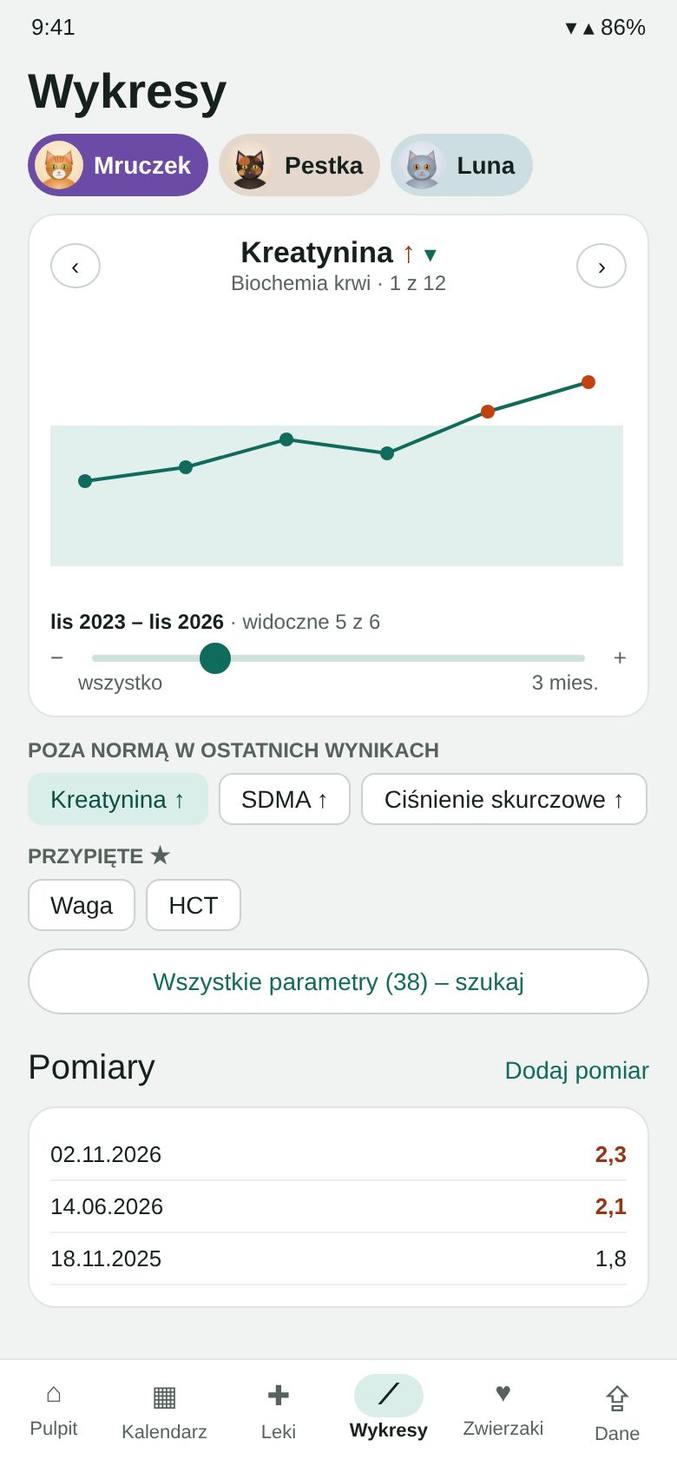
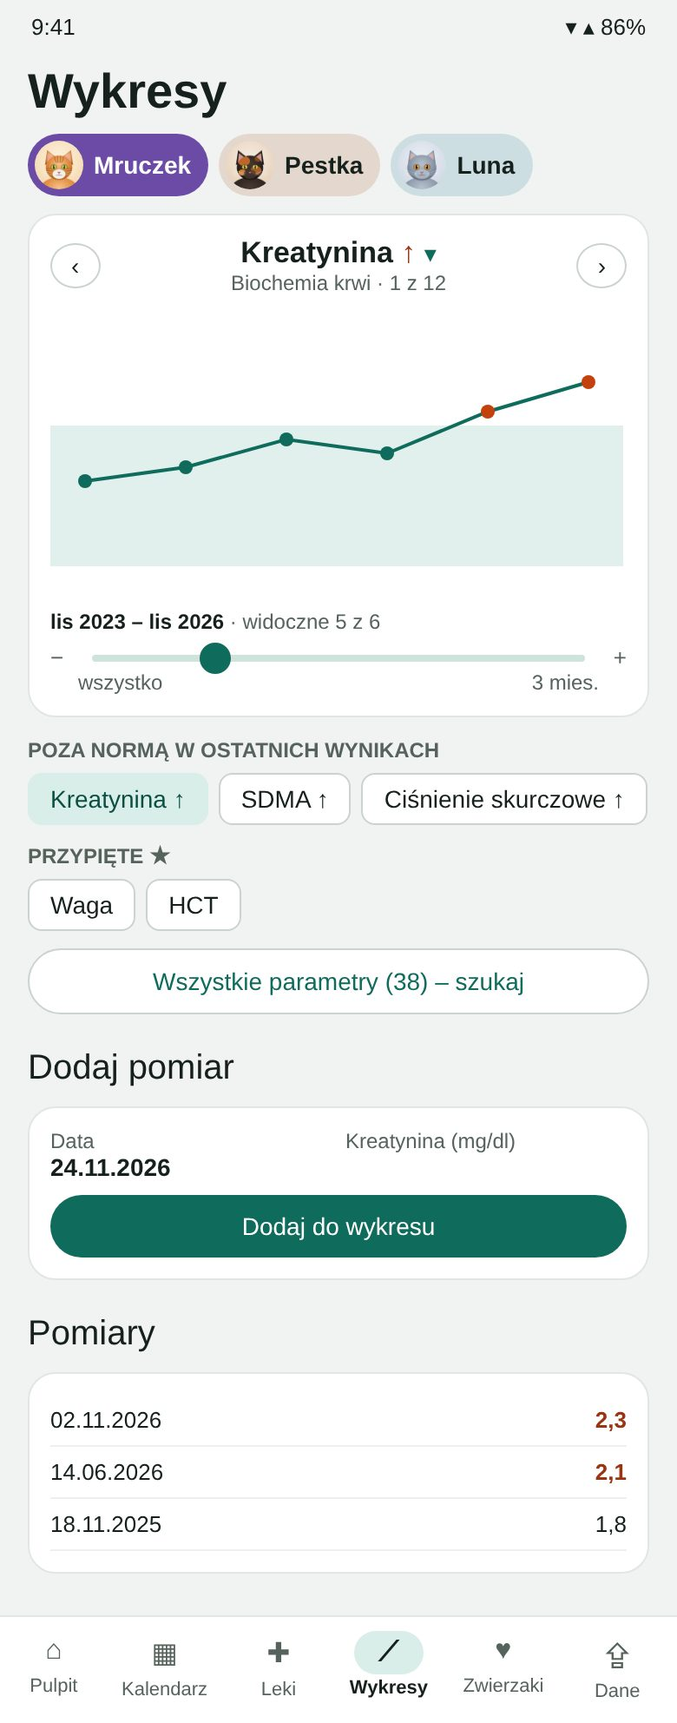
Zmiany 0.20.1, podręcznik: Dodaj pomiar nad listą
Claude-Session: https://claude.ai/code/session_01Lz8gJxS2uki7r8oLhaRRUg

diff --git a/zmiany/index.html b/zmiany/index.html
@@ -8,5 +8,5 @@ main{max-width:760px;margin:0 auto;padding:clamp(28px,5vw,56px) max(5vw,18px) 64
 h1{font-size:clamp(30px,5vw,40px);line-height:1.1;margin:8px 0 18px}.ver{border-top:1px solid var(--line);padding:14px 0 4px}
 .ver h2{font-size:20px;margin:0 0 4px}.ver h2 span{font-size:15px;font-weight:400;color:var(--mut);margin-left:8px}ul{padding-left:22px;margin:6px 0}li{margin:4px 0}</style></head><body><main>
 <p><a href="../">← KitkuApp</a></p><h1>Historia zmian</h1>
-<section class="ver"><h2>0.20.0 <span>24.11.2026</span></h2><ul><li>Wykresy na osi czasu: punkty w odstępach zgodnych z datami, na osi lata (po przybliżeniu półrocza i kwartały).</li><li>Domyślnie widać ostatnie 3 lata; gdy pomiary obejmują krótszy okres – wszystkie.</li><li>Przeciągnięcie wykresu w lewo lub w prawo przesuwa widok w czasie; strzałki ‹ › w rogach pokazują, że są starsze lub nowsze pomiary.</li><li>Suwak pod wykresem przybliża od „wszystko” do 3 miesięcy; „↺ Domyślny widok” wraca do 3 lat.</li></ul></section><section class="ver"><h2>0.19.2 <span>24.11.2026</span></h2><ul><li>Wykresy: parametry morfologii w kolejności jak na wydruku z analizatora (WBC, BAS%, BAS, NEU%, NEU … PLT, MPV, PDW, PCT), pozostałe pod nimi alfabetycznie.</li></ul></section><section class="ver"><h2>0.19.1 <span>24.11.2026</span></h2><ul><li>Wykresy: ten sam wynik zapisany w dwóch dokumentach z jednego dnia pokazuje się raz (bez nakładających się etykiet).</li><li>Parametry podawane w % (np. NEU %) mają własny wykres, osobno od wartości bezwzględnych.</li><li>Lista parametrów: bez pustych dopisków „też:”.</li></ul></section><section class="ver"><h2>0.19.0 <span>24.11.2026</span></h2><ul><li>Wykresy: wykres od razu pod wyborem zwierzaka. Dotknięcie nazwy parametru otwiera wybór, strzałki ‹ › przechodzą do sąsiednich parametrów z tej samej grupy.</li><li>Pod wykresem skróty: parametry poza normą w ostatnich wynikach i przypięte gwiazdką.</li><li>„Wszystkie parametry” – lista z wyszukiwarką (także po innych nazwach, np. „hematokryt”), pogrupowana jak badania, z ostatnią wartością.</li><li>Ten sam parametr z różnych laboratoriów (np. HCT i Hematokryt, PLT i Płytki krwi) oraz nazwy rozbite przy odczycie PDF trafiają na jeden wykres.</li></ul></section><section class="ver"><h2>0.18.2 <span>24.11.2026</span></h2><ul><li>Profil: „Archiwum diet” i „Historia fizjoterapii” przeniesione pod karty – przycisk dodawania w nagłówku nie łamie się już na wąskich ekranach.</li></ul></section><section class="ver"><h2>0.18.1 <span>23.11.2026</span></h2><ul><li>Poprawka: po przesunięciu profilu na innego zwierzaka „Terminy badań” pokazywały daty poprzednio oglądanego zwierzaka.</li></ul></section><section class="ver"><h2>0.18.0 <span>23.11.2026</span></h2><ul><li>Wizyta z datą w przyszłości wymaga tylko tytułu. Gdy termin minie, jest wyróżniona w historii i na Pulpicie z prośbą o wyniki – „Uzupełnij” albo „Dodaj skan” (skan z tego dnia uzupełni ten wpis).</li><li>Dieta: w profilu tylko trwające diety, zakończone w „Archiwum diet”. „Zakończ dietę” od razu przenosi ją do archiwum.</li><li>Fizjoterapia przeniesiona z kategorii badań do profilu zwierzaka – sekcja pod dietą, z własną historią.</li><li>Przesunięcie profilu w lewo lub w prawo przechodzi do kolejnego zwierzaka.</li><li>Kategorie badań przy dodawaniu wpisu pogrupowane (krew i mocz, obrazowe, wizyty) i zajmują mniej miejsca.</li></ul></section><section class="ver"><h2>0.17.0 <span>23.11.2026</span></h2><ul><li>Ręczny wpis: osobne pola Opis i Zalecenia (zalecenia tworzą przypomnienia), wyniki wpisywane wierszami – z podpowiedzią parametru, jednostką, normą i strzałką poza normą. Badanie z wynikami wymaga co najmniej jednego wyniku. Wyniki trafiają na wykresy i do stanu zdrowia.</li><li>Nowa kategoria: Fizjoterapia (opis zabiegów i zalecenia).</li><li>Stan zdrowia: dotknięcie pozycji otwiera badanie, przy wartościach poza normą widać normę, a zalecenia typu „kontrola za 12 miesięcy” nie są liczone jako problem.</li><li>Wybór zwierzaka ze zdjęciem i kolorem zwierzaka w tle (kalendarz, leki, wykresy, wpisy).</li><li>Leki: sekcja „Historia diet” nad historią leczenia.</li></ul></section><section class="ver"><h2>0.16.0 <span>23.11.2026</span></h2><ul><li>Profil zwierzaka: sekcja „Dieta” (nazwa, od–do lub na stałe, reakcja na dietę). Po zakończeniu dieta przechodzi do historii.</li><li>Wyszukiwanie w historii zwierzaka – w tytułach i opisach wpisów, na bieżąco podczas pisania.</li><li>Historia podzielona na roczniki – kreska z rokiem na granicy lat.</li><li>Po powrocie z otwartego wpisu profil wraca w to samo miejsce historii.</li></ul></section><section class="ver"><h2>0.15.2 <span>23.11.2026</span></h2><ul><li>Lepszy import historii wizyt: opis badania klinicznego zachowuje podział na punkty, zawinięte zdania są sklejane, a wizyty z samymi załącznikami są pomijane.</li><li>Poprawnie odczytywane wyniki, w których wartość jest sklejona z nazwą parametru (np. SAA), wyniki „w toku” są pomijane, a „Wartość” dostaje nazwę badania.</li><li>Interpretacja wyniku przerwana podziałem strony nie gubi ostatniego zdania.</li></ul></section><section class="ver"><h2>0.15.1 <span>23.11.2026</span></h2><ul><li>Nowa ikona aplikacji.</li><li>Zakładka „Dane i ustawienia” – czytelniej rozdzielone sekcje przywracania kopii i wyglądu.</li></ul></section><section class="ver"><h2>0.15.0 <span>22.11.2026</span></h2><ul><li>Normy badania moczu dla kotów i psów, gdy laboratorium ich nie podało: ciężar właściwy, pH, stosunek białko/kreatynina (z rozróżnieniem wartości granicznej i białkomoczu), erytrocyty i leukocyty w osadzie.</li><li>Wyniki opisowe (glukoza, ketony, krew, bilirubina, bakterie, wałeczki, nabłonki, liczne kryształy) oznaczane jako nieprawidłowe, z normą słowną obok. Białko z paska u kota – tylko informacyjnie.</li><li>Nieprawidłowe wyniki moczu trafiają do podsumowania stanu zdrowia.</li></ul></section><section class="ver"><h2>0.14.0 <span>22.11.2026</span></h2><ul><li>Ciemny motyw: przełącznik w zakładce Dane (sekcja „Wygląd”). Domyślnie aplikacja dopasowuje się do ustawień telefonu.</li></ul></section><section class="ver"><h2>0.13.1 <span>22.11.2026</span></h2><ul><li>Lepszy import zeskanowanych kart wizyt: rozpoznawane sekcje „Opis badania”, „Zabiegi” i „Zastosowane leki” mimo ikon przy nagłówkach, a także data wizyty zaznaczona zakreślaczem.</li><li>Tomografia wpisana w zabiegach oznacza wpis kategorią TK.</li></ul></section><section class="ver"><h2>0.13.0 <span>22.11.2026</span></h2><ul><li>Profil zwierzaka: nowa sekcja „Stan zdrowia” – podsumowanie tworzone automatycznie z ostatnich wyników każdego badania (wartości poza normą, wnioski z badań obrazowych, na końcu badania w normie). Odświeża się samo po dodaniu nowych wyników.</li><li>Pod podsumowaniem pole „Moje notatki” na własne uwagi o zdrowiu.</li></ul></section><section class="ver"><h2>0.12.5 <span>22.11.2026</span></h2><ul><li>Import opisów tomografii komputerowej: rozpoznawane imię zwierzęcia, data i tytuł badania, lekarz opisujący i kierujący, a do wpisu trafia pełny opis i wnioski (bez stopek i stron z obrazami).</li><li>Nowa kategoria badań: Tomografia komputerowa.</li></ul></section><section class="ver"><h2>0.12.4 <span>22.11.2026</span></h2><ul><li>Kalendarz: dotknięcie nazwy miesiąca otwiera wybór miesiąca i roku.</li><li>Kalendarz: usunięta karta „Terminy badań” – terminy są w profilach zwierzaków, a w widoku miesiąca nadal widać je jako kółka.</li><li>Po powrocie z otwartego wpisu kalendarz pokazuje ten sam miesiąc, dzień i filtr.</li></ul></section><section class="ver"><h2>0.12.3 <span>22.11.2026</span></h2><ul><li>Leki podawane co kilka dni: w oknie leku pole „Podawaj co … dni”, na liście informacja o następnej dawce, a zapasy liczą zużycie tylko w dni podania.</li></ul></section><section class="ver"><h2>0.12.2 <span>22.11.2026</span></h2><ul><li>Sekcja Zapasy na karcie Leki pokazuje wszystkie monitorowane leki, niezależnie od wybranego zwierzaka, razem z informacją, kto je dostaje.</li></ul></section><section class="ver"><h2>0.12.1 <span>22.11.2026</span></h2><ul><li>W przypomnieniu jednorazowym termin można ustawić wpisując „Za … miesięcy” – data przelicza się sama.</li></ul></section><section class="ver"><h2>0.12.0 <span>22.11.2026</span></h2><ul><li>Zapasy leków: zaznacz „Monitoruj zużycie”, wpisz posiadaną ilość, a karta Leki pokaże, na ile dni wystarczy zapas. Zużycie liczone jest ze wszystkich zwierzaków, które dostają ten sam lek.</li><li>Przypomnienie na Pulpicie i powiadomienie, gdy zapas leku kończy się w ciągu 7 dni.</li><li>Dawka wpisywana jako liczba z jednostką (szt, ml, g).</li><li>Nowy lek można dodać od razu kilku zwierzakom i o kilku godzinach.</li><li>Podpowiedzi nazw leków już używanych (także przy literówce) – z dawką i jednostką.</li></ul></section><section class="ver"><h2>0.11.6 <span>20.11.2026</span></h2><ul><li>Opisy badań USG importowane w całości, w akapitach, z kategorią „USG jamy brzusznej”.</li><li>Poprawione rozpoznawanie imion i słów w wypisach, w których PDF rozdzielał wyrazy (np. „Zw ierzę”).</li></ul></section><section class="ver"><h2>0.11.5 <span>20.11.2026</span></h2><ul><li>Uwaga o konsultacji częstotliwości badań z weterynarzem przeniesiona nad przypomnienia jednorazowe.</li><li>W zakładce Dane przy numerze wersji link do listy zmian.</li></ul></section><section class="ver"><h2>0.11.4 <span>20.11.2026</span></h2><ul><li>Przypomnienie o USG jamy brzusznej domyślnie co 12 miesięcy (wcześniej 6).</li><li>W ustawieniach przypomnień uwaga, że częstotliwość badań warto ustalić z lekarzem weterynarii.</li></ul></section><section class="ver"><h2>0.11.3 <span>20.11.2026</span></h2><ul><li>Przypomnienie o echu serca domyślnie co 12 miesięcy (wcześniej 24), zgodnie z zaleceniem corocznej kontroli kotów z ras predysponowanych i z łagodną kardiomiopatią.</li></ul></section><section class="ver"><h2>0.11.2 <span>19.11.2026</span></h2><ul><li>Przy dodawaniu wpisu i imporcie nie trzeba już wybierać rodzaju (wizyta, badanie, telefon, pomiar domowy) — aplikacja ustawia go sama.</li></ul></section><section class="ver"><h2>0.11.1 <span>19.11.2026</span></h2><ul><li>Profil zwierzaka: dotknięcie badania w „Terminach badań” pokazuje historię tylko z tym badaniem.</li></ul></section><section class="ver"><h2>0.11.0 <span>19.11.2026</span></h2><ul><li>Import wypisów z gabinetu kardiologicznego: cały wynik echa serca zapisany w opisie wizyty, wywiad, waga, ciśnienie i zalecenia (np. kontrolne echo po 3–4 miesiącach).</li><li>Imię z wypisu dopasowywane mimo drobnej różnicy w pisowni (np. Papaya ↔ Papaja).</li></ul></section><section class="ver"><h2>0.10.6 <span>19.11.2026</span></h2><ul><li>Numer wersji rośnie automatycznie z każdym wydaniem (porządek przy publikacji w Google Play).</li></ul></section><section class="ver"><h2>0.10.5 <span>19.11.2026</span></h2><ul><li>Polityka prywatności na stronie aplikacji (GitHub Pages), link w zakładce Dane.</li></ul></section><section class="ver"><h2>0.10.4 <span>18.11.2026</span></h2><ul><li>Import kilku dużych kartotek naraz bez zawieszania aplikacji: zapis w tle, pliki czytane po kolei, lista wizyt pokazywana porcjami, przycisk usuwania duplikatów z listy.</li></ul></section><section class="ver"><h2>0.10.3 <span>17.11.2026</span></h2><ul><li>Edycja i usuwanie przypomnień: zmiana nazwy i okresu, usuwanie własnych i domyślnych (z możliwością przywrócenia), edycja przypomnień jednorazowych.</li></ul></section><section class="ver"><h2>0.10.2 <span>17.11.2026</span></h2><ul><li>Zwierzaki na Pulpicie i w zakładce Zwierzaki ułożone od tych, które najbardziej potrzebują badań.</li><li>Terminy badań w profilu od zaległych do najodleglejszych.</li><li>Leki pogrupowane według godziny podawania.</li></ul></section><section class="ver"><h2>0.10.1 <span>17.11.2026</span></h2><ul><li>Nowe przypomnienie: pomiar ciśnienia co 6 miesięcy.</li></ul></section><section class="ver"><h2>0.10.0 <span>17.11.2026</span></h2><ul><li>Przygotowanie do Google Play: nowy identyfikator aplikacji, Android 16, polityka prywatności.</li></ul></section><section class="ver"><h2>0.9.2 <span>17.11.2026</span></h2><ul><li>Przypomnienia jednorazowe nie mnożą się po imporcie starszych kartotek; zamknięte można ukryć lub usunąć.</li></ul></section><section class="ver"><h2>0.9.1 <span>17.11.2026</span></h2><ul><li>Ręczna poprawa zaimportowanych wyników: nazwa, wartość, jednostka, norma, dodawanie i usuwanie pozycji.</li><li>Poprawny tytuł badania, gdy tabela zaczyna się na następnej stronie wypisu.</li></ul></section><section class="ver"><h2>0.9.0 <span>17.11.2026</span></h2><ul><li>Psy obok kotów, z typowymi wartościami tętna, oddechów i ciśnienia dla psa.</li><li>Przypomnienia jednorazowe z zaleceń w wypisie (np. „powtórzyć USG za miesiąc”) i po wynikach poza normą.</li></ul></section><section class="ver"><h2>0.8.0 <span>17.11.2026</span></h2><ul><li>Zdjęcia zwierząt z przesuwaniem i kadrowaniem.</li><li>Ciśnienie skurczowe, rozkurczowe i tętno w pomiarach domowych i z wypisów.</li></ul></section><section class="ver"><h2>0.7 <span>17.11.2026</span></h2><ul><li>Nowa zakładka Leki: godzina podawania, dawka, uwagi, daty oraz historia leczenia.</li><li>Czytelniejszy dolny pasek nawigacji.</li></ul></section><section class="ver"><h2>0.6 <span>17.11.2026</span></h2><ul><li>Nowa nazwa: KitkuApp, przycisk „Postaw kotkom karmę”.</li><li>Przypomnienie o echu serca (co 24 miesiące) i własne przypomnienia.</li></ul></section><section class="ver"><h2>0.5 <span>17.11.2026</span></h2><ul><li>Odczyt skanów PDF i zdjęć wypisów (rozpoznawanie tekstu w telefonie).</li><li>Pomiary domowe: oddechy w spoczynku, biegunka, wymioty; zwijane kategorie wykresów.</li><li>Zakładka Dane z importem i kopią zapasową, dzwonek do ustawień przypomnień, do 6 zwierzaków widocznych bez przewijania.</li></ul></section><section class="ver"><h2>0.4 <span>16.11.2026</span></h2><ul><li>Import zbiorczych wypisów z wieloma wizytami w jednym pliku.</li><li>Jednostki wyników przeliczane na wspólne, dokładniejszy odczyt tabel z wynikami.</li></ul></section><section class="ver"><h2>0.3 <span>16.11.2026</span></h2><ul><li>Pierwsza wersja: kalendarz badań z przypomnieniami, profile kotów z wiekiem, import wypisów PDF, wykresy wyników, kopia zapasowa na Dysku Google.</li></ul></section>
+<section class="ver"><h2>0.20.1 <span>24.11.2026</span></h2><ul><li>Wykresy: „Dodaj pomiar” jest teraz nad listą wcześniejszych pomiarów.</li><li>Pomiary domowe: usunięte ciśnienie rozkurczowe (u kotów ocenia się głównie skurczowe). Wartości rozkurczowe z wypisów nadal są na wykresach.</li></ul></section><section class="ver"><h2>0.20.0 <span>24.11.2026</span></h2><ul><li>Wykresy na osi czasu: punkty w odstępach zgodnych z datami, na osi lata (po przybliżeniu półrocza i kwartały).</li><li>Domyślnie widać ostatnie 3 lata; gdy pomiary obejmują krótszy okres – wszystkie.</li><li>Przeciągnięcie wykresu w lewo lub w prawo przesuwa widok w czasie; strzałki ‹ › w rogach pokazują, że są starsze lub nowsze pomiary.</li><li>Suwak pod wykresem przybliża od „wszystko” do 3 miesięcy; „↺ Domyślny widok” wraca do 3 lat.</li></ul></section><section class="ver"><h2>0.19.2 <span>24.11.2026</span></h2><ul><li>Wykresy: parametry morfologii w kolejności jak na wydruku z analizatora (WBC, BAS%, BAS, NEU%, NEU … PLT, MPV, PDW, PCT), pozostałe pod nimi alfabetycznie.</li></ul></section><section class="ver"><h2>0.19.1 <span>24.11.2026</span></h2><ul><li>Wykresy: ten sam wynik zapisany w dwóch dokumentach z jednego dnia pokazuje się raz (bez nakładających się etykiet).</li><li>Parametry podawane w % (np. NEU %) mają własny wykres, osobno od wartości bezwzględnych.</li><li>Lista parametrów: bez pustych dopisków „też:”.</li></ul></section><section class="ver"><h2>0.19.0 <span>24.11.2026</span></h2><ul><li>Wykresy: wykres od razu pod wyborem zwierzaka. Dotknięcie nazwy parametru otwiera wybór, strzałki ‹ › przechodzą do sąsiednich parametrów z tej samej grupy.</li><li>Pod wykresem skróty: parametry poza normą w ostatnich wynikach i przypięte gwiazdką.</li><li>„Wszystkie parametry” – lista z wyszukiwarką (także po innych nazwach, np. „hematokryt”), pogrupowana jak badania, z ostatnią wartością.</li><li>Ten sam parametr z różnych laboratoriów (np. HCT i Hematokryt, PLT i Płytki krwi) oraz nazwy rozbite przy odczycie PDF trafiają na jeden wykres.</li></ul></section><section class="ver"><h2>0.18.2 <span>24.11.2026</span></h2><ul><li>Profil: „Archiwum diet” i „Historia fizjoterapii” przeniesione pod karty – przycisk dodawania w nagłówku nie łamie się już na wąskich ekranach.</li></ul></section><section class="ver"><h2>0.18.1 <span>23.11.2026</span></h2><ul><li>Poprawka: po przesunięciu profilu na innego zwierzaka „Terminy badań” pokazywały daty poprzednio oglądanego zwierzaka.</li></ul></section><section class="ver"><h2>0.18.0 <span>23.11.2026</span></h2><ul><li>Wizyta z datą w przyszłości wymaga tylko tytułu. Gdy termin minie, jest wyróżniona w historii i na Pulpicie z prośbą o wyniki – „Uzupełnij” albo „Dodaj skan” (skan z tego dnia uzupełni ten wpis).</li><li>Dieta: w profilu tylko trwające diety, zakończone w „Archiwum diet”. „Zakończ dietę” od razu przenosi ją do archiwum.</li><li>Fizjoterapia przeniesiona z kategorii badań do profilu zwierzaka – sekcja pod dietą, z własną historią.</li><li>Przesunięcie profilu w lewo lub w prawo przechodzi do kolejnego zwierzaka.</li><li>Kategorie badań przy dodawaniu wpisu pogrupowane (krew i mocz, obrazowe, wizyty) i zajmują mniej miejsca.</li></ul></section><section class="ver"><h2>0.17.0 <span>23.11.2026</span></h2><ul><li>Ręczny wpis: osobne pola Opis i Zalecenia (zalecenia tworzą przypomnienia), wyniki wpisywane wierszami – z podpowiedzią parametru, jednostką, normą i strzałką poza normą. Badanie z wynikami wymaga co najmniej jednego wyniku. Wyniki trafiają na wykresy i do stanu zdrowia.</li><li>Nowa kategoria: Fizjoterapia (opis zabiegów i zalecenia).</li><li>Stan zdrowia: dotknięcie pozycji otwiera badanie, przy wartościach poza normą widać normę, a zalecenia typu „kontrola za 12 miesięcy” nie są liczone jako problem.</li><li>Wybór zwierzaka ze zdjęciem i kolorem zwierzaka w tle (kalendarz, leki, wykresy, wpisy).</li><li>Leki: sekcja „Historia diet” nad historią leczenia.</li></ul></section><section class="ver"><h2>0.16.0 <span>23.11.2026</span></h2><ul><li>Profil zwierzaka: sekcja „Dieta” (nazwa, od–do lub na stałe, reakcja na dietę). Po zakończeniu dieta przechodzi do historii.</li><li>Wyszukiwanie w historii zwierzaka – w tytułach i opisach wpisów, na bieżąco podczas pisania.</li><li>Historia podzielona na roczniki – kreska z rokiem na granicy lat.</li><li>Po powrocie z otwartego wpisu profil wraca w to samo miejsce historii.</li></ul></section><section class="ver"><h2>0.15.2 <span>23.11.2026</span></h2><ul><li>Lepszy import historii wizyt: opis badania klinicznego zachowuje podział na punkty, zawinięte zdania są sklejane, a wizyty z samymi załącznikami są pomijane.</li><li>Poprawnie odczytywane wyniki, w których wartość jest sklejona z nazwą parametru (np. SAA), wyniki „w toku” są pomijane, a „Wartość” dostaje nazwę badania.</li><li>Interpretacja wyniku przerwana podziałem strony nie gubi ostatniego zdania.</li></ul></section><section class="ver"><h2>0.15.1 <span>23.11.2026</span></h2><ul><li>Nowa ikona aplikacji.</li><li>Zakładka „Dane i ustawienia” – czytelniej rozdzielone sekcje przywracania kopii i wyglądu.</li></ul></section><section class="ver"><h2>0.15.0 <span>22.11.2026</span></h2><ul><li>Normy badania moczu dla kotów i psów, gdy laboratorium ich nie podało: ciężar właściwy, pH, stosunek białko/kreatynina (z rozróżnieniem wartości granicznej i białkomoczu), erytrocyty i leukocyty w osadzie.</li><li>Wyniki opisowe (glukoza, ketony, krew, bilirubina, bakterie, wałeczki, nabłonki, liczne kryształy) oznaczane jako nieprawidłowe, z normą słowną obok. Białko z paska u kota – tylko informacyjnie.</li><li>Nieprawidłowe wyniki moczu trafiają do podsumowania stanu zdrowia.</li></ul></section><section class="ver"><h2>0.14.0 <span>22.11.2026</span></h2><ul><li>Ciemny motyw: przełącznik w zakładce Dane (sekcja „Wygląd”). Domyślnie aplikacja dopasowuje się do ustawień telefonu.</li></ul></section><section class="ver"><h2>0.13.1 <span>22.11.2026</span></h2><ul><li>Lepszy import zeskanowanych kart wizyt: rozpoznawane sekcje „Opis badania”, „Zabiegi” i „Zastosowane leki” mimo ikon przy nagłówkach, a także data wizyty zaznaczona zakreślaczem.</li><li>Tomografia wpisana w zabiegach oznacza wpis kategorią TK.</li></ul></section><section class="ver"><h2>0.13.0 <span>22.11.2026</span></h2><ul><li>Profil zwierzaka: nowa sekcja „Stan zdrowia” – podsumowanie tworzone automatycznie z ostatnich wyników każdego badania (wartości poza normą, wnioski z badań obrazowych, na końcu badania w normie). Odświeża się samo po dodaniu nowych wyników.</li><li>Pod podsumowaniem pole „Moje notatki” na własne uwagi o zdrowiu.</li></ul></section><section class="ver"><h2>0.12.5 <span>22.11.2026</span></h2><ul><li>Import opisów tomografii komputerowej: rozpoznawane imię zwierzęcia, data i tytuł badania, lekarz opisujący i kierujący, a do wpisu trafia pełny opis i wnioski (bez stopek i stron z obrazami).</li><li>Nowa kategoria badań: Tomografia komputerowa.</li></ul></section><section class="ver"><h2>0.12.4 <span>22.11.2026</span></h2><ul><li>Kalendarz: dotknięcie nazwy miesiąca otwiera wybór miesiąca i roku.</li><li>Kalendarz: usunięta karta „Terminy badań” – terminy są w profilach zwierzaków, a w widoku miesiąca nadal widać je jako kółka.</li><li>Po powrocie z otwartego wpisu kalendarz pokazuje ten sam miesiąc, dzień i filtr.</li></ul></section><section class="ver"><h2>0.12.3 <span>22.11.2026</span></h2><ul><li>Leki podawane co kilka dni: w oknie leku pole „Podawaj co … dni”, na liście informacja o następnej dawce, a zapasy liczą zużycie tylko w dni podania.</li></ul></section><section class="ver"><h2>0.12.2 <span>22.11.2026</span></h2><ul><li>Sekcja Zapasy na karcie Leki pokazuje wszystkie monitorowane leki, niezależnie od wybranego zwierzaka, razem z informacją, kto je dostaje.</li></ul></section><section class="ver"><h2>0.12.1 <span>22.11.2026</span></h2><ul><li>W przypomnieniu jednorazowym termin można ustawić wpisując „Za … miesięcy” – data przelicza się sama.</li></ul></section><section class="ver"><h2>0.12.0 <span>22.11.2026</span></h2><ul><li>Zapasy leków: zaznacz „Monitoruj zużycie”, wpisz posiadaną ilość, a karta Leki pokaże, na ile dni wystarczy zapas. Zużycie liczone jest ze wszystkich zwierzaków, które dostają ten sam lek.</li><li>Przypomnienie na Pulpicie i powiadomienie, gdy zapas leku kończy się w ciągu 7 dni.</li><li>Dawka wpisywana jako liczba z jednostką (szt, ml, g).</li><li>Nowy lek można dodać od razu kilku zwierzakom i o kilku godzinach.</li><li>Podpowiedzi nazw leków już używanych (także przy literówce) – z dawką i jednostką.</li></ul></section><section class="ver"><h2>0.11.6 <span>20.11.2026</span></h2><ul><li>Opisy badań USG importowane w całości, w akapitach, z kategorią „USG jamy brzusznej”.</li><li>Poprawione rozpoznawanie imion i słów w wypisach, w których PDF rozdzielał wyrazy (np. „Zw ierzę”).</li></ul></section><section class="ver"><h2>0.11.5 <span>20.11.2026</span></h2><ul><li>Uwaga o konsultacji częstotliwości badań z weterynarzem przeniesiona nad przypomnienia jednorazowe.</li><li>W zakładce Dane przy numerze wersji link do listy zmian.</li></ul></section><section class="ver"><h2>0.11.4 <span>20.11.2026</span></h2><ul><li>Przypomnienie o USG jamy brzusznej domyślnie co 12 miesięcy (wcześniej 6).</li><li>W ustawieniach przypomnień uwaga, że częstotliwość badań warto ustalić z lekarzem weterynarii.</li></ul></section><section class="ver"><h2>0.11.3 <span>20.11.2026</span></h2><ul><li>Przypomnienie o echu serca domyślnie co 12 miesięcy (wcześniej 24), zgodnie z zaleceniem corocznej kontroli kotów z ras predysponowanych i z łagodną kardiomiopatią.</li></ul></section><section class="ver"><h2>0.11.2 <span>19.11.2026</span></h2><ul><li>Przy dodawaniu wpisu i imporcie nie trzeba już wybierać rodzaju (wizyta, badanie, telefon, pomiar domowy) — aplikacja ustawia go sama.</li></ul></section><section class="ver"><h2>0.11.1 <span>19.11.2026</span></h2><ul><li>Profil zwierzaka: dotknięcie badania w „Terminach badań” pokazuje historię tylko z tym badaniem.</li></ul></section><section class="ver"><h2>0.11.0 <span>19.11.2026</span></h2><ul><li>Import wypisów z gabinetu kardiologicznego: cały wynik echa serca zapisany w opisie wizyty, wywiad, waga, ciśnienie i zalecenia (np. kontrolne echo po 3–4 miesiącach).</li><li>Imię z wypisu dopasowywane mimo drobnej różnicy w pisowni (np. Papaya ↔ Papaja).</li></ul></section><section class="ver"><h2>0.10.6 <span>19.11.2026</span></h2><ul><li>Numer wersji rośnie automatycznie z każdym wydaniem (porządek przy publikacji w Google Play).</li></ul></section><section class="ver"><h2>0.10.5 <span>19.11.2026</span></h2><ul><li>Polityka prywatności na stronie aplikacji (GitHub Pages), link w zakładce Dane.</li></ul></section><section class="ver"><h2>0.10.4 <span>18.11.2026</span></h2><ul><li>Import kilku dużych kartotek naraz bez zawieszania aplikacji: zapis w tle, pliki czytane po kolei, lista wizyt pokazywana porcjami, przycisk usuwania duplikatów z listy.</li></ul></section><section class="ver"><h2>0.10.3 <span>17.11.2026</span></h2><ul><li>Edycja i usuwanie przypomnień: zmiana nazwy i okresu, usuwanie własnych i domyślnych (z możliwością przywrócenia), edycja przypomnień jednorazowych.</li></ul></section><section class="ver"><h2>0.10.2 <span>17.11.2026</span></h2><ul><li>Zwierzaki na Pulpicie i w zakładce Zwierzaki ułożone od tych, które najbardziej potrzebują badań.</li><li>Terminy badań w profilu od zaległych do najodleglejszych.</li><li>Leki pogrupowane według godziny podawania.</li></ul></section><section class="ver"><h2>0.10.1 <span>17.11.2026</span></h2><ul><li>Nowe przypomnienie: pomiar ciśnienia co 6 miesięcy.</li></ul></section><section class="ver"><h2>0.10.0 <span>17.11.2026</span></h2><ul><li>Przygotowanie do Google Play: nowy identyfikator aplikacji, Android 16, polityka prywatności.</li></ul></section><section class="ver"><h2>0.9.2 <span>17.11.2026</span></h2><ul><li>Przypomnienia jednorazowe nie mnożą się po imporcie starszych kartotek; zamknięte można ukryć lub usunąć.</li></ul></section><section class="ver"><h2>0.9.1 <span>17.11.2026</span></h2><ul><li>Ręczna poprawa zaimportowanych wyników: nazwa, wartość, jednostka, norma, dodawanie i usuwanie pozycji.</li><li>Poprawny tytuł badania, gdy tabela zaczyna się na następnej stronie wypisu.</li></ul></section><section class="ver"><h2>0.9.0 <span>17.11.2026</span></h2><ul><li>Psy obok kotów, z typowymi wartościami tętna, oddechów i ciśnienia dla psa.</li><li>Przypomnienia jednorazowe z zaleceń w wypisie (np. „powtórzyć USG za miesiąc”) i po wynikach poza normą.</li></ul></section><section class="ver"><h2>0.8.0 <span>17.11.2026</span></h2><ul><li>Zdjęcia zwierząt z przesuwaniem i kadrowaniem.</li><li>Ciśnienie skurczowe, rozkurczowe i tętno w pomiarach domowych i z wypisów.</li></ul></section><section class="ver"><h2>0.7 <span>17.11.2026</span></h2><ul><li>Nowa zakładka Leki: godzina podawania, dawka, uwagi, daty oraz historia leczenia.</li><li>Czytelniejszy dolny pasek nawigacji.</li></ul></section><section class="ver"><h2>0.6 <span>17.11.2026</span></h2><ul><li>Nowa nazwa: KitkuApp, przycisk „Postaw kotkom karmę”.</li><li>Przypomnienie o echu serca (co 24 miesiące) i własne przypomnienia.</li></ul></section><section class="ver"><h2>0.5 <span>17.11.2026</span></h2><ul><li>Odczyt skanów PDF i zdjęć wypisów (rozpoznawanie tekstu w telefonie).</li><li>Pomiary domowe: oddechy w spoczynku, biegunka, wymioty; zwijane kategorie wykresów.</li><li>Zakładka Dane z importem i kopią zapasową, dzwonek do ustawień przypomnień, do 6 zwierzaków widocznych bez przewijania.</li></ul></section><section class="ver"><h2>0.4 <span>16.11.2026</span></h2><ul><li>Import zbiorczych wypisów z wieloma wizytami w jednym pliku.</li><li>Jednostki wyników przeliczane na wspólne, dokładniejszy odczyt tabel z wynikami.</li></ul></section><section class="ver"><h2>0.3 <span>16.11.2026</span></h2><ul><li>Pierwsza wersja: kalendarz badań z przypomnieniami, profile kotów z wiekiem, import wypisów PDF, wykresy wyników, kopia zapasowa na Dysku Google.</li></ul></section>
 </main></body></html>

diff --git a/podrecznik/index.html b/podrecznik/index.html
@@ -57,8 +57,8 @@ footer{border-top:1px solid var(--line);margin-top:30px;padding-top:14px}
 <div><h2>Leki</h2><p>Leki podawane każdemu zwierzakowi, pogrupowane według godzin, i zapasy.</p><ol class="steps"><li data-n="1"><span class="n">1</span><span>Wybór zwierzaka – zdjęcie, a w tle kolor zwierzaka (ten sam co na wykresach).</span></li><li data-n="2"><span class="n">2</span><span>Ołówek: <b>edycja leku</b> (godzina, dawka, co ile dni, okres, zapas).</span></li><li data-n="3"><span class="n">3</span><span><b>Zakończ podawanie</b> – lek przechodzi do historii leczenia.</span></li><li data-n="4"><span class="n">4</span><span><b>Zapasy</b>: ile zostało i na ile dni wystarczy, liczone ze wszystkich zwierzaków dostających ten lek. Dotknij, aby wpisać nową ilość po zakupie. Przy 7 dniach i mniej pojawi się alert na Pulpicie.</span></li><li data-n="5"><span class="n">5</span><span><b>+ Dodaj lek</b> otwiera okno nowego leku (następny obrazek).</span></li><li data-n="6"><span class="n">6</span><span><b>Historia diet</b> – zakończone diety zwierzaka z reakcją na dietę (widoczne też w historii profilu).</span></li></ol></div></section><section class="scr" id="lek-okno" style="--cycle:8.0s">
 <div class="shot"><img src="img/lek-okno.jpg" alt="Ekran Nowy lek z przykładowymi danymi" width="780" height="1688" loading="lazy"><span class="tap" data-n="1" style="left:10.77%;top:17.18%;--d:0.0s" aria-hidden="true">1</span><span class="tap" data-n="2" style="left:10.77%;top:28.44%;--d:1.6s" aria-hidden="true">2</span><span class="tap" data-n="3" style="left:10.77%;top:33.29%;--d:3.2s" aria-hidden="true">3</span><span class="tap" data-n="4" style="left:10.77%;top:56.04%;--d:4.8s" aria-hidden="true">4</span><span class="tap" data-n="5" style="left:10.77%;top:61.37%;--d:6.4s" aria-hidden="true">5</span></div>
 <div><h2>Nowy lek</h2><p>Jeden lek można dodać od razu kilku zwierzakom i o kilku godzinach.</p><ol class="steps"><li data-n="1"><span class="n">1</span><span>Zaznacz <b>kilka zwierzaków</b> naraz (albo „Wszystkie”).</span></li><li data-n="2"><span class="n">2</span><span>Zaznacz <b>godziny</b> – spośród już używanych albo dodaj inną. Powstanie wpis dla każdej pary zwierzak × godzina.</span></li><li data-n="3"><span class="n">3</span><span>Przy wpisywaniu nazwy pojawiają się <b>podpowiedzi</b> leków już używanych (także przy literówce). Wybranie podpowiedzi wpisuje dawkę, jednostkę i aktualny zapas.</span></li><li data-n="4"><span class="n">4</span><span><b>Podawaj co X dni</b> – np. odrobaczanie co 90 dni.</span></li><li data-n="5"><span class="n">5</span><span><b>Monitoruj zużycie</b> – wpisz posiadaną ilość, a aplikacja policzy, na ile dni wystarczy.</span></li></ol></div></section><section class="scr" id="wykresy" style="--cycle:12.8s">
-<div class="shot"><img src="img/wykresy.jpg" alt="Ekran Wykresy z przykładowymi danymi" width="780" height="1688" loading="lazy"><span class="tap" data-n="1" style="left:5.13%;top:9.6%;--d:0.0s" aria-hidden="true">1</span><span class="tap" data-n="2" style="left:17.86%;top:16.59%;--d:1.6s" aria-hidden="true">2</span><span class="tap" data-n="3" style="left:8.46%;top:17.06%;--d:3.2s" aria-hidden="true">3</span><span class="tap" data-n="4" style="left:8.46%;top:21.33%;--d:4.8s" aria-hidden="true">4</span><span class="tap" data-n="8" style="left:8.46%;top:44.43%;--d:11.2s" aria-hidden="true">8</span><span class="tap" data-n="5" style="left:5.13%;top:53.2%;--d:6.4s" aria-hidden="true">5</span><span class="tap" data-n="6" style="left:5.13%;top:65.17%;--d:8.0s" aria-hidden="true">6</span><span class="tap" data-n="7" style="left:75.57%;top:72.45%;--d:9.6s" aria-hidden="true">7</span></div>
-<div><h2>Wykresy</h2><p>Zmiany wyników w czasie – z zaznaczoną normą.</p><ol class="steps"><li data-n="1"><span class="n">1</span><span>Wybór zwierzaka.</span></li><li data-n="2"><span class="n">2</span><span>Nazwa parametru – dotknij, aby wybrać inny. Strzałka ↑/↓ oznacza ostatni wynik poza normą.</span></li><li data-n="3"><span class="n">3</span><span>Strzałki ‹ › przechodzą do poprzedniego / następnego parametru z tej samej grupy (np. kolejne wyniki biochemii).</span></li><li data-n="4"><span class="n">4</span><span>Zielony pas to norma, czerwone punkty – wyniki poza normą. Punkty stoją według dat. Przeciągnij wykres w lewo lub w prawo, aby przesunąć widok w czasie; strzałki ‹ › w rogach oznaczają starsze lub nowsze pomiary poza widokiem.</span></li><li data-n="8"><span class="n">8</span><span>Suwak przybliża wykres – od wszystkich pomiarów do 3 miesięcy. Domyślnie widać ostatnie 3 lata; „↺ Domyślny widok” wraca do tego ustawienia.</span></li><li data-n="5"><span class="n">5</span><span>Skróty: parametry poza normą w ostatnich wynikach oraz przypięte gwiazdką.</span></li><li data-n="6"><span class="n">6</span><span><b>Wszystkie parametry</b> – lista z wyszukiwarką (działa też na inne nazwy, np. „hematokryt” → HCT), pogrupowana jak badania, z ostatnią wartością. Gwiazdka ☆ przypina parametr. Ten sam parametr z różnych laboratoriów jest na jednym wykresie.</span></li><li data-n="7"><span class="n">7</span><span><b>Dodaj pomiar</b> – np. waga z domowej wagi albo ciśnienie zmierzone w domu.</span></li></ol></div></section><section class="scr" id="przypomnienia" style="--cycle:8.0s">
+<div class="shot"><img src="img/wykresy.jpg" alt="Ekran Wykresy z przykładowymi danymi" width="780" height="1984" loading="lazy"><span class="tap" data-n="1" style="left:5.13%;top:8.17%;--d:0.0s" aria-hidden="true">1</span><span class="tap" data-n="2" style="left:17.86%;top:14.11%;--d:1.6s" aria-hidden="true">2</span><span class="tap" data-n="3" style="left:8.46%;top:14.52%;--d:3.2s" aria-hidden="true">3</span><span class="tap" data-n="4" style="left:8.46%;top:18.15%;--d:4.8s" aria-hidden="true">4</span><span class="tap" data-n="8" style="left:8.46%;top:37.8%;--d:11.2s" aria-hidden="true">8</span><span class="tap" data-n="5" style="left:5.13%;top:45.26%;--d:6.4s" aria-hidden="true">5</span><span class="tap" data-n="6" style="left:5.13%;top:55.44%;--d:8.0s" aria-hidden="true">6</span><span class="tap" data-n="7" style="left:5.13%;top:64.62%;--d:9.6s" aria-hidden="true">7</span></div>
+<div><h2>Wykresy</h2><p>Zmiany wyników w czasie – z zaznaczoną normą.</p><ol class="steps"><li data-n="1"><span class="n">1</span><span>Wybór zwierzaka.</span></li><li data-n="2"><span class="n">2</span><span>Nazwa parametru – dotknij, aby wybrać inny. Strzałka ↑/↓ oznacza ostatni wynik poza normą.</span></li><li data-n="3"><span class="n">3</span><span>Strzałki ‹ › przechodzą do poprzedniego / następnego parametru z tej samej grupy (np. kolejne wyniki biochemii).</span></li><li data-n="4"><span class="n">4</span><span>Zielony pas to norma, czerwone punkty – wyniki poza normą. Punkty stoją według dat. Przeciągnij wykres w lewo lub w prawo, aby przesunąć widok w czasie; strzałki ‹ › w rogach oznaczają starsze lub nowsze pomiary poza widokiem.</span></li><li data-n="8"><span class="n">8</span><span>Suwak przybliża wykres – od wszystkich pomiarów do 3 miesięcy. Domyślnie widać ostatnie 3 lata; „↺ Domyślny widok” wraca do tego ustawienia.</span></li><li data-n="5"><span class="n">5</span><span>Skróty: parametry poza normą w ostatnich wynikach oraz przypięte gwiazdką.</span></li><li data-n="6"><span class="n">6</span><span><b>Wszystkie parametry</b> – lista z wyszukiwarką (działa też na inne nazwy, np. „hematokryt” → HCT), pogrupowana jak badania, z ostatnią wartością. Gwiazdka ☆ przypina parametr. Ten sam parametr z różnych laboratoriów jest na jednym wykresie.</span></li><li data-n="7"><span class="n">7</span><span><b>Dodaj pomiar</b> – nad listą wcześniejszych pomiarów; np. waga z domowej wagi albo ciśnienie skurczowe zmierzone w domu.</span></li></ol></div></section><section class="scr" id="przypomnienia" style="--cycle:8.0s">
 <div class="shot"><img src="img/przypomnienia.jpg" alt="Ekran Przypomnienia z przykładowymi danymi" width="780" height="1688" loading="lazy"><span class="tap" data-n="1" style="left:8.46%;top:10.43%;--d:0.0s" aria-hidden="true">1</span><span class="tap" data-n="2" style="left:5.13%;top:36.97%;--d:1.6s" aria-hidden="true">2</span><span class="tap" data-n="3" style="left:90.0%;top:55.33%;--d:3.2s" aria-hidden="true">3</span><span class="tap" data-n="4" style="left:5.13%;top:61.73%;--d:4.8s" aria-hidden="true">4</span><span class="tap" data-n="5" style="left:8.46%;top:71.45%;--d:6.4s" aria-hidden="true">5</span></div>
 <div><h2>Przypomnienia</h2><p>Co ile miesięcy które badanie i kiedy dostawać powiadomienia. Otwierane dzwonkiem na Pulpicie.</p><ol class="steps"><li data-n="1"><span class="n">1</span><span>Dotknij badania, aby zmienić <b>częstotliwość</b>, nazwę, śledzenie albo je usunąć.</span></li><li data-n="2"><span class="n">2</span><span>Własne przypomnienia – np. odrobaczanie co 3 miesiące.</span></li><li data-n="3"><span class="n">3</span><span>Przypomnienie jednorazowe: zmień termin, edytuj, przenieś na innego zwierzaka albo usuń.</span></li><li data-n="4"><span class="n">4</span><span>Nowe przypomnienie jednorazowe – termin datą albo „Za N miesięcy”.</span></li><li data-n="5"><span class="n">5</span><span>Z jakim wyprzedzeniem badanie ma się pojawiać jako „wkrótce” i w powiadomieniach.</span></li></ol></div></section><section class="scr" id="dane" style="--cycle:8.0s">
 <div class="shot"><img src="img/dane.jpg" alt="Ekran Kopia, wygląd i informacje z przykładowymi danymi" width="780" height="1688" loading="lazy"><span class="tap" data-n="1" style="left:8.46%;top:18.36%;--d:0.0s" aria-hidden="true">1</span><span class="tap" data-n="2" style="left:8.46%;top:23.82%;--d:1.6s" aria-hidden="true">2</span><span class="tap" data-n="3" style="left:8.46%;top:39.22%;--d:3.2s" aria-hidden="true">3</span><span class="tap" data-n="4" style="left:82.31%;top:56.4%;--d:4.8s" aria-hidden="true">4</span><span class="tap" data-n="5" style="left:34.96%;top:69.19%;--d:6.4s" aria-hidden="true">5</span></div>

diff --git a/index.html b/index.html
@@ -47,7 +47,7 @@ a{color:var(--acc)}.mut{color:var(--mut);font-size:15px}
 <div class="shots"><a href="img/01_pulpit-duzy.jpg"><img src="img/01_pulpit.jpg" alt="Pulpit" loading="lazy" width="540" height="960"></a><a href="img/02_zwierzaki-duzy.jpg"><img src="img/02_zwierzaki.jpg" alt="Lista zwierzaków" loading="lazy" width="540" height="960"></a><a href="img/03_profil-duzy.jpg"><img src="img/03_profil.jpg" alt="Profil – stan zdrowia i terminy" loading="lazy" width="540" height="960"></a><a href="img/04_opieka-duzy.jpg"><img src="img/04_opieka.jpg" alt="Profil – dieta, fizjoterapia i notatki" loading="lazy" width="540" height="960"></a><a href="img/05_wykresy-duzy.jpg"><img src="img/05_wykresy.jpg" alt="Wykresy wyników" loading="lazy" width="540" height="960"></a><a href="img/06_leki-duzy.jpg"><img src="img/06_leki.jpg" alt="Leki i zapasy" loading="lazy" width="540" height="960"></a><a href="img/07_kalendarz-duzy.jpg"><img src="img/07_kalendarz.jpg" alt="Kalendarz" loading="lazy" width="540" height="960"></a><a href="img/08_import-duzy.jpg"><img src="img/08_import.jpg" alt="Import wyników" loading="lazy" width="540" height="960"></a><a href="img/09_dane-duzy.jpg"><img src="img/09_dane.jpg" alt="Kopia zapasowa i wygląd" loading="lazy" width="540" height="960"></a></div>
 <p class="get"><a class="dl guide" href="podrecznik/">Podręcznik użytkownika</a><span>co można zrobić na każdym ekranie aplikacji</span></p>
 <h2>Co nowego</h2>
-<!--NOWE--><section class="ver"><h2>0.20.0 <span>24.11.2026</span></h2><ul><li>Wykresy na osi czasu: punkty w odstępach zgodnych z datami, na osi lata (po przybliżeniu półrocza i kwartały).</li><li>Domyślnie widać ostatnie 3 lata; gdy pomiary obejmują krótszy okres – wszystkie.</li><li>Przeciągnięcie wykresu w lewo lub w prawo przesuwa widok w czasie; strzałki ‹ › w rogach pokazują, że są starsze lub nowsze pomiary.</li><li>Suwak pod wykresem przybliża od „wszystko” do 3 miesięcy; „↺ Domyślny widok” wraca do 3 lat.</li></ul></section><p><a href="zmiany/">Pełna historia zmian</a></p><!--/NOWE-->
+<!--NOWE--><section class="ver"><h2>0.20.1 <span>24.11.2026</span></h2><ul><li>Wykresy: „Dodaj pomiar” jest teraz nad listą wcześniejszych pomiarów.</li><li>Pomiary domowe: usunięte ciśnienie rozkurczowe (u kotów ocenia się głównie skurczowe). Wartości rozkurczowe z wypisów nadal są na wykresach.</li></ul></section><p><a href="zmiany/">Pełna historia zmian</a></p><!--/NOWE-->
 <p><a href="polityka-prywatnosci/">Polityka prywatności</a></p>
 <p>Aplikacja nie zastępuje porady lekarza weterynarii. Jej główny cel to pomoc właścicielom w pilnowaniu terminów badań i zebranie wszystkich wyników z różnych lecznic w jednym miejscu, na telefonie właściciela. Także po to, by pamiętać o wszystkim przy kolejnej wizycie u weterynarza. Powstała z myślą o moim stadzie, rozwijam ją po pracy. Jeśli pomogła Twoim kotom, postaw karmę moim (bo karma wraca) ;)</p>
 <p class="get"><a class="dl support" href="https://buycoffee.to/kitkuapp">Postaw kotkom karmę</a><span>wsparcie rozwoju aplikacji przez buycoffee.to</span></p>

diff --git a/tools/podrecznik/screens.py b/tools/podrecznik/screens.py
@@ -271,7 +271,9 @@ S.append(("wykresy", "Wykresy", "Zmiany wyników w czasie – z zaznaczoną norm
  <div class="mut sm b" style="margin:10px 0 6px">PRZYPIĘTE ★</div>
  <div style="display:flex;gap:6px;flex-wrap:wrap"><span class="chip">Waga</span><span class="chip">HCT</span></div>
  <div class="btn o" style="display:block;text-align:center;margin-top:10px"{T(6)}>Wszystkie parametry (38) – szukaj</div>
- <h2>Pomiary <span class="tb"{T(7)}>Dodaj pomiar</span></h2>
+ <h2>Dodaj pomiar</h2>
+ <div class="card"{T(7)}><div class="row" style="gap:8px"><div class="grow mut sm">Data<br><b style="color:#16201C;font-size:14px">24.11.2026</b></div><div class="grow mut sm">Kreatynina (mg/dl)<br><b style="color:#16201C;font-size:14px">&nbsp;</b></div></div><div class="btn" style="display:block;text-align:center;margin-top:8px">Dodaj do wykresu</div></div>
+ <h2>Pomiary</h2>
  <div class="card"><table><tr><td>02.11.2026</td><td class="hi" style="text-align:right">2,3</td></tr><tr><td>14.06.2026</td><td class="hi" style="text-align:right">2,1</td></tr><tr><td>18.11.2025</td><td style="text-align:right">1,8</td></tr></table></div>
 </div>''', "Wykresy"), [
  (1, "Wybór zwierzaka."),
@@ -281,7 +283,7 @@ S.append(("wykresy", "Wykresy", "Zmiany wyników w czasie – z zaznaczoną norm
  (8, "Suwak przybliża wykres – od wszystkich pomiarów do 3 miesięcy. Domyślnie widać ostatnie 3 lata; „↺ Domyślny widok” wraca do tego ustawienia."),
  (5, "Skróty: parametry poza normą w ostatnich wynikach oraz przypięte gwiazdką."),
  (6, "<b>Wszystkie parametry</b> – lista z wyszukiwarką (działa też na inne nazwy, np. „hematokryt” → HCT), pogrupowana jak badania, z ostatnią wartością. Gwiazdka ☆ przypina parametr. Ten sam parametr z różnych laboratoriów jest na jednym wykresie."),
- (7, "<b>Dodaj pomiar</b> – np. waga z domowej wagi albo ciśnienie zmierzone w domu."),
+ (7, "<b>Dodaj pomiar</b> – nad listą wcześniejszych pomiarów; np. waga z domowej wagi albo ciśnienie skurczowe zmierzone w domu."),
 ]))
 
 # 11. Przypomnienia

diff --git a/CHANGELOG.md b/CHANGELOG.md
@@ -1,5 +1,9 @@
 # Historia zmian KitkuApp
 
+## 0.20.1 — 24.11.2026
+- Wykresy: „Dodaj pomiar” jest teraz nad listą wcześniejszych pomiarów.
+- Pomiary domowe: usunięte ciśnienie rozkurczowe (u kotów ocenia się głównie skurczowe). Wartości rozkurczowe z wypisów nadal są na wykresach.
+
 ## 0.20.0 — 24.11.2026
 - Wykresy na osi czasu: punkty w odstępach zgodnych z datami, na osi lata (po przybliżeniu półrocza i kwartały).
 - Domyślnie widać ostatnie 3 lata; gdy pomiary obejmują krótszy okres – wszystkie.
